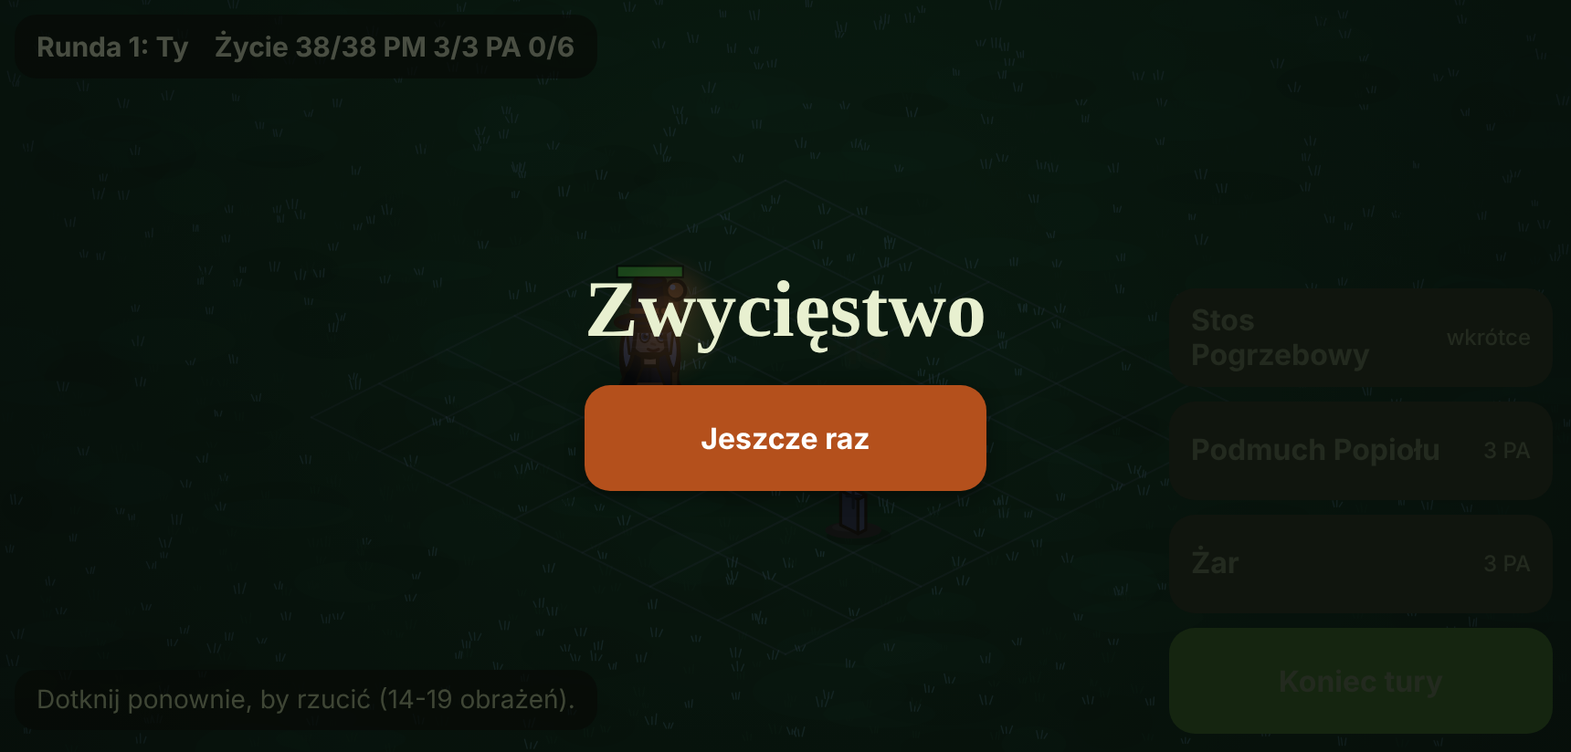
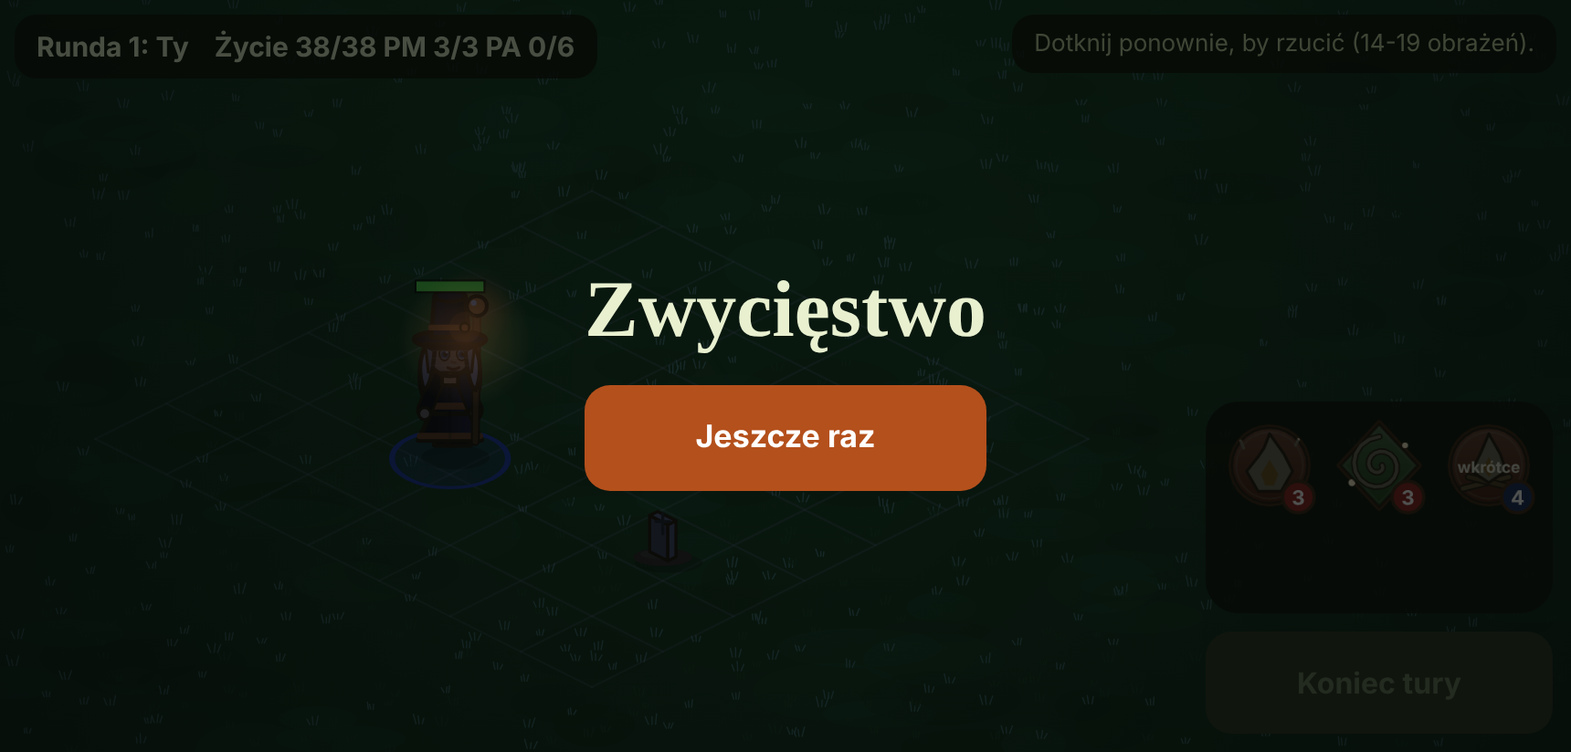
Fazy C, D, E: ikony w grze, pasek skrótów, karty czaru i wroga, kolory żywiołów
Pasek skrótów: 6 ikon na stronę, przyciski stron i przesunięcie palcem. W poziomie
prawa kolumna 3x2 (romb planszy zostawia tam miejsce), w pionie dolny pasek.
Karta czaru (żywiol, koszt, zasięg, widoczność, widełki obrażeń z odpornością),
karta wroga z odpornościami odkrywanymi po pierwszym trafieniu żywiołem.
Liczby obrażeń w kolorze żywiołu ze strzałką słabości i odporności.
5 czarów testowych (?spells=all) do sprawdzania stron. Ikony ich symboli.
Testy: 84 jednostkowe, 4 testy dotykowe (w tym pasek: strony, swipe, odkrywanie).

Claude-Session: https://claude.ai/code/session_01YGgK3XekFYaLDhBRBtmmRq

diff --git a/www/walka.html b/www/walka.html
@@ -1,27 +1,50 @@
 <!doctype html><html lang="pl"><head><meta charset="utf-8">
 <meta name="viewport" content="width=device-width,initial-scale=1,maximum-scale=1,user-scalable=no"><title>Walka</title>
 <style>
+:root{--s:min(60px,calc((100vw - 36px) / 8.8))}
 html,body{margin:0;height:100%;background:#0c1210;color:#e8f0d0;font:15px system-ui,sans-serif;-webkit-user-select:none;user-select:none;overscroll-behavior:none;overflow:hidden}
 #app{position:fixed;inset:0}
-canvas{position:absolute;inset:0;width:100%;height:100%;touch-action:none;display:block}
-.pill{position:absolute;background:rgba(10,14,8,.72);border-radius:12px;padding:8px 12px;pointer-events:none}
-#hud{top:max(8px,env(safe-area-inset-top));left:max(8px,env(safe-area-inset-left));font-weight:700;display:flex;gap:14px}
-#msg{bottom:max(12px,env(safe-area-inset-bottom));left:max(8px,env(safe-area-inset-left));max-width:calc(100% - 250px);color:#c6d6a6;font-size:14px}
+canvas#c{position:absolute;inset:0;width:100%;height:100%;touch-action:none;display:block}
+.pill{position:absolute;background:rgba(10,14,8,.8);border-radius:12px;padding:8px 12px}
+#hud{top:max(8px,env(safe-area-inset-top));left:max(8px,env(safe-area-inset-left));font-weight:700;display:flex;gap:14px;pointer-events:none}
+#msg{top:max(8px,env(safe-area-inset-top));right:max(8px,env(safe-area-inset-right));max-width:42vw;color:#c6d6a6;font-size:13px;text-align:right;pointer-events:none}
 #msg:empty{display:none}
-#right{position:absolute;right:max(10px,env(safe-area-inset-right));bottom:max(10px,env(safe-area-inset-bottom));display:flex;flex-direction:column;gap:8px;width:min(210px,40vw)}
-button{border:0;border-radius:14px;font:700 16px system-ui;color:#fff;touch-action:manipulation;box-shadow:0 3px 10px rgba(0,0,0,.4)}
-#end{height:58px;background:#3b6a2a}
-.sp{min-height:54px;background:#4a2a3a;text-align:left;padding:6px 12px;line-height:1.2;display:flex;justify-content:space-between;align-items:center;gap:6px}
-.sp small{font-weight:500;font-size:12px;color:#d8c8d0}
-.sp.on{background:#b4501c;outline:3px solid #ffe066}
-button:disabled{background:#2a3324;color:#6a7a5a;box-shadow:none}.sp:disabled small{color:#6a7a5a}
+#foe{left:max(8px,env(safe-area-inset-left));top:calc(max(8px,env(safe-area-inset-top)) + 50px);display:none;min-width:150px}
+#foe b{display:block;margin-bottom:4px}
+#foe .rs{display:grid;grid-template-columns:1fr 1fr;gap:4px 10px}
+#foe .r{display:flex;align-items:center;gap:6px;font-weight:700;font-size:14px}
+#foe canvas{width:30px;height:30px}
+#card{left:50%;transform:translateX(-50%);bottom:calc(var(--s) + 34px);max-width:min(94vw,540px);display:none;font-size:14px;line-height:1.4;text-align:center}
+#card small{color:#a89878;display:block}
+#bar{position:absolute;left:50%;transform:translateX(-50%);bottom:max(10px,env(safe-area-inset-bottom));display:flex;align-items:center;gap:6px;background:rgba(10,14,8,.85);border-radius:18px;padding:6px 8px;touch-action:none}
+#slots{display:flex;gap:6px;min-width:calc(var(--s) * 6 + 30px)}
+.slot{width:var(--s);height:var(--s);padding:0;border:0;border-radius:14px;background:transparent;touch-action:none}
+.slot canvas{width:100%;height:100%;display:block}
+.pg{width:calc(var(--s) * .6);height:var(--s);border:0;border-radius:12px;background:#2c2022;color:#e8dcc0;font-size:24px;touch-action:manipulation}
+.pg:disabled{opacity:.3}
+#pgi{position:absolute;top:-17px;left:50%;transform:translateX(-50%);font-size:12px;color:#a89878}
+button{font-family:inherit}
+#end{position:absolute;right:max(10px,env(safe-area-inset-right));bottom:max(10px,env(safe-area-inset-bottom));width:min(170px,26vw);height:calc(var(--s) + 12px);border:0;border-radius:14px;background:#3b6a2a;color:#fff;font:700 16px system-ui;box-shadow:0 3px 10px rgba(0,0,0,.4);touch-action:manipulation}
+#end:disabled{background:#2a3324;color:#6a7a5a;box-shadow:none}
+@media (orientation:landscape) and (min-width:600px){
+  :root{--s:54px}
+  #bar{left:auto;right:max(10px,env(safe-area-inset-right));transform:none;bottom:calc(max(10px,env(safe-area-inset-bottom)) + 66px);display:grid;grid-template-columns:1fr 1fr;grid-template-areas:"slots slots" "prev next";gap:6px;padding:8px}
+  #slots{grid-area:slots;display:grid;grid-template-columns:repeat(3,var(--s));min-width:0}
+  #prev{grid-area:prev;width:auto;height:40px}#next{grid-area:next;width:auto;height:40px}
+  #end{width:calc(var(--s) * 3 + 12px + 16px);height:56px}
+  #card{left:max(8px,env(safe-area-inset-left));transform:none;bottom:max(10px,env(safe-area-inset-bottom));max-width:36vw;text-align:left}
+}
+@media (max-width:760px) and (orientation:portrait){#msg{top:calc(max(8px,env(safe-area-inset-top)) + 50px);left:max(8px,env(safe-area-inset-left));right:auto;text-align:left;max-width:78vw}#foe{top:calc(max(8px,env(safe-area-inset-top)) + 100px)}#end{bottom:calc(var(--s) + 34px + 10px);width:min(150px,36vw);height:48px}}
 #banner{position:absolute;inset:0;display:none;flex-direction:column;align-items:center;justify-content:center;gap:16px;background:rgba(6,8,6,.7);font:800 44px Georgia,serif}
-#banner button{background:#b4501c;width:220px;height:58px}
+#banner button{background:#b4501c;width:220px;height:58px;border:0;border-radius:14px;color:#fff;font:700 17px system-ui}
 </style></head><body><div id="app">
 <canvas id="c"></canvas>
 <div id="hud" class="pill"><span id="who">Walka</span><span id="pts"></span></div>
 <div id="msg" class="pill"></div>
-<div id="right"><div id="spells" style="display:flex;flex-direction:column-reverse;gap:8px"></div><button id="end">Koniec tury</button></div>
+<div id="foe" class="pill"></div>
+<div id="card" class="pill"></div>
+<div id="bar"><span id="pgi"></span><button class="pg" id="prev" aria-label="Poprzednia strona">‹</button><div id="slots"></div><button class="pg" id="next" aria-label="Następna strona">›</button></div>
+<button id="end">Koniec tury</button>
 <div id="banner"><span id="bt"></span><button id="again">Jeszcze raz</button></div></div>
 <script type="module">
 import {IsoGrid} from '../src/grid.js';
@@ -31,54 +54,99 @@ import {drawGridLines,fillCells,drawCellOutline} from '../src/art/gridview.js';
 import * as N from '../src/art/nature.js';
 import {grave,ashCloud} from '../src/art/props.js';
 import {applyMood,glow} from '../src/art/mood.js';
+import {drawSpellIcon} from '../src/art/spellicons.js';
 import {createState,currentUnit,unitById,gridOf,occupied} from '../src/game/state.js';
 import {applyCommand,legalMoves,ERRORS} from '../src/game/commands.js';
 import {findPath} from '../src/game/pathfinding.js';
 import {chooseCommand} from '../src/game/ai.js';
-import {CLASSES} from '../src/game/classdata.js';
-import {castProblem,validTargets,damageRangeVs,elementOfSpell,spellData,implemented} from '../src/game/spells.js';
+import {CLASSES,ELEMENTS,DEV_SPELLS,findSpellDef} from '../src/game/classdata.js';
+import {castProblem,validTargets,damageRange,damageRangeVs,elementOfSpell,spellData,implemented} from '../src/game/spells.js';
 import {spawn} from '../src/game/bestiary.js';
 
 const cv=document.getElementById('c'),g=cv.getContext('2d'),$=id=>document.getElementById(id);
-const Q=new URLSearchParams(location.search),mood=Q.get('mood')||'noc',scenario=Q.get('scenario')||'default',HERO=Q.get('hero')||'zalobnik';
-const WORLD={w:540,h:400},grid=new IsoGrid(7,7,{x:WORLD.w/2,y:96});
+const Q=new URLSearchParams(location.search),mood=Q.get('mood')||'noc',scenario=Q.get('scenario')||'default',HERO=Q.get('hero')||'zalobnik',ALL=Q.get('spells')==='all',PAGE=6;
+const WORLD={w:540,h:356},grid=new IsoGrid(7,7,{x:WORLD.w/2,y:84});
 let view={s:1,ox:0,oy:0};
 const guard=(id,x,y,seed,arch='straznik')=>spawn(arch,id,x,y,{role:'warrior',seed});
-const hero=(x,y)=>({id:'h',team:'gracz',name:'Ty',classId:HERO,seed:3,x,y,initiative:99});
+const hero=(x,y)=>({id:'h',team:'gracz',name:'Ty',classId:HERO,seed:3,x,y,initiative:99,...(ALL?{spells:[...CLASSES[HERO].spells,...DEV_SPELLS].map(s=>({id:s.id,level:1}))}:{})});
 const SCEN={
-  default:{blocked:[{x:3,y:2},{x:4,y:2},{x:2,y:4},{x:4,y:4},{x:0,y:3}],units:[hero(1,5),guard('e1',5,1,9),guard('e2',5,3,21)]},
+  default:{blocked:[{x:3,y:2},{x:4,y:2},{x:2,y:4},{x:4,y:4},{x:0,y:3}],units:[hero(1,5),guard('e1',5,1,9),guard('e2',5,3,21,'popielny')]},
   cast:{blocked:[],units:[hero(2,4),guard('e1',5,4,9)]},
   wall:{blocked:[{x:3,y:4}],units:[hero(1,4),guard('e1',5,4,9)]},
   push:{blocked:[{x:6,y:4}],units:[hero(2,4),guard('e1',4,4,9)]},
 };
-let state,look,facing,lastPos,preview=null,selSpell=null,anim=null,busy=false,pendingResult=null,floats=[],shake=new Map();
+let state,look,facing,lastPos,preview=null,selSpell=null,anim=null,busy=false,pendingResult=null,floats=[],shake=new Map(),page=0,inspect=null,swiped=false;
 function newGame(){const sc=SCEN[scenario]||SCEN.default;state=createState({cols:7,rows:7,seed:42,blocked:sc.blocked,units:sc.units});
   look=new Map(state.units.map(u=>[u.id,u.id==='h'?heroSpec(HERO,{face:1,hairStyle:'long',hair:'#c8c8d0',skin:'#f0c49a'}):genCharacter(u.seed,u.role)]));
   facing=new Map(state.units.map(u=>[u.id,u.team==='gracz'?'SE':'SW']));lastPos=new Map(state.units.map(u=>[u.id,{x:u.x,y:u.y}]));
-  preview=null;selSpell=null;anim=null;busy=false;pendingResult=null;floats=[];$('banner').style.display='none';hud();say('Twoja tura: dotknij kafla, by zobaczyć drogę, dotknij ponownie, by iść.')}
+  preview=null;selSpell=null;anim=null;busy=false;pendingResult=null;floats=[];inspect=null;page=0;$('banner').style.display='none';hud();say('Twoja tura: dotknij kafla, by zobaczyć drogę, dotknij ponownie, by iść.')}
 const dirFor=(dx,dy)=>dx>0?'SE':dx<0?'NW':dy>0?'SW':'NE';   // x rośnie w prawo-dół, y w lewo-dół
+const COL={earth:'#d2a45c',fire:'#ff6a3a',water:'#5ab0ff',air:'#7ae07a',neutral:'#e8e8e8'};
 
 const bg=document.createElement('canvas');
 function renderBg(){bg.width=cv.width;bg.height=cv.height;const b=bg.getContext('2d');
   N.ground(b,bg.width,bg.height,7,{biome:'dark'});N.tufts(b,bg.width,bg.height,7,Math.round(bg.width*bg.height/1400),null,{biome:'dark'});
   b.setTransform(view.s,0,0,view.s,view.ox,view.oy);drawGridLines(b,grid,'rgba(255,255,255,.22)')}
+const isLand=()=>matchMedia('(orientation:landscape) and (min-width:600px)').matches;
 function resize(){const r=cv.getBoundingClientRect(),dpr=Math.min(2,window.devicePixelRatio||1);cv.width=Math.max(2,Math.round(r.width*dpr));cv.height=Math.max(2,Math.round(r.height*dpr));
-  const s=Math.min(cv.width/WORLD.w,cv.height/WORLD.h);view={s,ox:(cv.width-WORLD.w*s)/2,oy:(cv.height-WORLD.h*s)/2};renderBg()}
+  const bar=$('bar').getBoundingClientRect(),land=isLand(),topPad=14*dpr,botPad=(land?14:bar.height+26)*dpr,rightPad=(land?bar.width+22:0)*dpr;
+  const availW=cv.width-rightPad,availH=cv.height-botPad-topPad,s=Math.min(availW/WORLD.w,availH/WORLD.h);
+  view={s,ox:(availW-WORLD.w*s)/2,oy:topPad+(availH-WORLD.h*s)/2};renderBg()}
 addEventListener('resize',resize);
 const toWorld=(cx,cy)=>{const r=cv.getBoundingClientRect(),px=(cx-r.left)*cv.width/r.width,py=(cy-r.top)*cv.height/r.height;return[(px-view.ox)/view.s,(py-view.oy)/view.s]};
 const toCss=(wx,wy)=>{const r=cv.getBoundingClientRect();return[(view.ox+wx*view.s)*r.width/cv.width,(view.oy+wy*view.s)*r.height/cv.height]};
 
 const say=t=>$('msg').textContent=t;
 const me=()=>unitById(state,'h');
-function hud(){const u=currentUnit(state),h=me(),mine=u.team==='gracz'&&!busy&&!state.result;
+const spellList=()=>me().spells.map(k=>({k,def:findSpellDef(me().classId,k.id),sd:spellData(me(),k.id)}));
+const mineNow=()=>currentUnit(state).team==='gracz'&&!busy&&!state.result;
+function slotInfo(it){const h=me(),d=it.sd.data,id=it.k.id,cd=h.cooldowns[id]||0,impl=implemented(d),noPa=h.pa<d.pa,lim=(h.casts[id]||0)>=d.perTurn,mine=mineNow();
+  const ready=mine&&impl&&!noPa&&cd===0&&!lim;
+  const st=!impl?'soon':cd>0?`cooldown:${cd}`:lim?'limit':noPa?'noPa':mine?'ready':'wait';
+  return{ready,st,reason:!impl?'Ten czar jeszcze nie działa.':cd>0?`Czar wróci za ${cd} t.`:lim?ERRORS.limit:noPa?ERRORS.no_pa:'Teraz nie możesz rzucać.',icon:{selected:selSpell===id,soon:!impl,cooldown:cd,noPa:noPa&&impl,disabled:!ready&&impl&&cd===0}}}
+function renderBar(){
+  const L=spellList(),pages=Math.max(1,Math.ceil(L.length/PAGE));page=Math.min(page,pages-1);
+  const box=$('slots');box.innerHTML='';
+  for(const it of L.slice(page*PAGE,page*PAGE+PAGE)){
+    const inf=slotInfo(it),b=document.createElement('button'),c=document.createElement('canvas');b.className='slot';b.id='slot-'+it.k.id;b.setAttribute('aria-label',it.def.name);b.dataset.state=inf.st;
+    if(!inf.ready)b.setAttribute('aria-disabled','true');c.width=c.height=120;b.append(c);
+    drawSpellIcon(c.getContext('2d'),{...it.def,pa:it.sd.data.pa},60,60,112,inf.icon);
+    b.onclick=()=>{if(swiped){swiped=false;return}pickSpell(it.k.id)};box.append(b)}
+  $('pgi').textContent=pages>1?`${page+1}/${pages}`:'';$('prev').style.visibility=$('next').style.visibility=pages>1?'visible':'hidden';$('prev').disabled=page===0;$('next').disabled=page>=pages-1;
+}
+function go(dir){const pages=Math.max(1,Math.ceil(me().spells.length/PAGE));page=Math.max(0,Math.min(pages-1,page+dir));renderBar()}
+$('prev').onclick=()=>go(-1);$('next').onclick=()=>go(1);
+{let sx=null;const bar=$('bar');bar.addEventListener('pointerdown',e=>{sx=e.clientX;swiped=false});
+ bar.addEventListener('pointermove',e=>{if(sx!=null&&!swiped&&Math.abs(e.clientX-sx)>40){swiped=true;go(e.clientX<sx?1:-1);sx=e.clientX}});
+ bar.addEventListener('pointerup',()=>{sx=null;setTimeout(()=>{swiped=false},50)});bar.addEventListener('pointercancel',()=>{sx=null})}
+
+function chipCanvas(el){const c=document.createElement('canvas');c.width=c.height=60;drawSpellIcon(c.getContext('2d'),{id:'none',element:el},30,30,56);return c}
+function renderFoe(){
+  const box=$('foe');const tgt=preview&&preview.kind==='cast'?state.units.find(q=>q.hp>0&&q.x===preview.x&&q.y===preview.y):inspect&&state.units.find(q=>q.id===inspect&&q.hp>0);
+  if(!tgt){box.style.display='none';return}
+  const kn=state.known[tgt.id]||{};box.style.display='block';box.innerHTML=`<b>${tgt.name||tgt.id} ${tgt.hp}/${tgt.maxHp}</b><div class="rs"></div>`;
+  for(const e of ['earth','fire','water','air','neutral']){const r=document.createElement('div');r.className='r';r.dataset.el=e;r.append(chipCanvas(e));const v=document.createElement('span');
+    if(kn[e]!==undefined){v.textContent=(kn[e]>0?'+':'')+kn[e]+'%';v.style.color=kn[e]>0?'#8ac88a':kn[e]<0?'#e08a6a':'#c8c8c8'}else{v.textContent='?';v.style.color='#777'}r.append(v);box.querySelector('.rs').append(r)}
+}
+function renderCard(){
+  const box=$('card');if(!selSpell){box.style.display='none';return}
+  const h=me(),def=findSpellDef(h.classId,selSpell),d=spellData(h,selSpell).data,el=ELEMENTS[def.element],[lo,hi]=damageRange(h,d,def.element);
+  let dm=`obrażenia ${lo}-${hi}`,sub='';
+  if(preview&&preview.kind==='cast'){const t=state.units.find(q=>q.hp>0&&q.x===preview.x&&q.y===preview.y),kn=t&&state.known[t.id]?.[def.element];
+    if(kn!==undefined){const [a,b]=damageRangeVs(h,d,def.element,t);dm=`obrażenia ${a}-${b} (odporność ${kn>0?'+':''}${kn}%)`}else dm+=' (odporność nieznana)';sub='Dotknij ponownie, by rzucić'}
+  else sub='Wybierz cel na podświetlonych kaflach';
+  box.style.display='block';box.innerHTML=`<b style="color:${COL[def.element]}">${def.name}</b> <span style="color:${COL[def.element]}">(${el.name})</span> · ${d.pa} PA · zasięg ${d.min}-${d.max}${d.line?' w linii':''}${d.los?', widoczność':''}${d.cd?` · odnowienie ${d.cd}`:''}<br>${dm}${d.push?` · odpycha o ${d.push}`:''}<small>${sub}</small>`;
+}
+function hud(){const u=currentUnit(state),h=me();
   $('who').textContent=`Runda ${state.turn.round}: ${u.name}`;$('pts').textContent=`Życie ${h.hp}/${h.maxHp}   PM ${h.pm}/${h.maxPm}   PA ${h.pa}/${h.maxPa}`;
-  $('end').disabled=!mine;
-  const box=$('spells');if(!box.children.length)for(const sp of CLASSES[h.classId].spells){const b=document.createElement('button');b.className='sp';b.id='sp-'+sp.id;b.onclick=()=>pickSpell(sp.id);box.append(b)}
-  for(const sp of CLASSES[h.classId].spells){const b=$('sp-'+sp.id),sd=spellData(h,sp.id),d=sd.data,cd=h.cooldowns[sp.id]||0,ok=implemented(d);
-    b.innerHTML=`<span>${sp.name}</span><small>${ok?(cd>0?`wraca za ${cd} t.`:`${d.pa} PA`):'wkrótce'}</small>`;
-    b.disabled=!mine||!ok||h.pa<d.pa||cd>0||(h.casts[sp.id]||0)>=d.perTurn;b.classList.toggle('on',selSpell===sp.id)}}
-function pickSpell(id){if(busy||state.result)return;selSpell=selSpell===id?null:id;preview=null;
-  say(selSpell?`${CLASSES[me().classId].spells.find(s=>s.id===id).name}: wybierz cel na podświetlonych kaflach.`:'Wybór czaru anulowany.');hud()}
+  $('end').disabled=!mineNow();renderBar();renderCard();renderFoe();resizeSoon()}
+let rs=0,sig='';function resizeSoon(){if(rs)return;rs=setTimeout(()=>{rs=0;const b=$('bar').getBoundingClientRect(),n=Math.round(b.width)+'x'+Math.round(b.height);if(n!==sig){sig=n;resize()}},0)}
+function pickSpell(id){
+  if(busy||state.result)return;const it=spellList().find(x=>x.k.id===id),inf=slotInfo(it);
+  if(!inf.ready&&selSpell!==id){say(inf.reason);return}
+  selSpell=selSpell===id?null:id;preview=null;inspect=null;
+  if(selSpell){const pi=Math.floor(spellList().findIndex(x=>x.k.id===id)/PAGE);page=pi}
+  say(selSpell?'Wybierz cel na podświetlonych kaflach.':'Wybór czaru anulowany.');hud()}
 const pathTo=(u,c)=>{const p=findPath(gridOf(state),u,c,occupied(state,u.id));return p&&p.length<=u.pm?p:null};
 
 function act(cmd){
@@ -87,13 +155,14 @@ function act(cmd){
   for(const e of r.events){
     if(e.type==='moved'){busy=true;anim={kind:'move',unit:e.unit,cells:[lastPos.get(e.unit),...e.path],t:0}}
     if(e.type==='cast'){busy=true;anim=anim||{kind:'wait',t:0,dur:.8};
-      const c=grid.center(e.to.x,e.to.y);for(const h of e.hits){floats.push({x:c[0],y:c[1]-46,text:'-'+h.dmg,t:0});shake.set(h.unit,0)}
+      const c=grid.center(e.to.x,e.to.y);for(const h of e.hits){addFloat(c,h);shake.set(h.unit,0)}
       facing.set(e.unit,dirFor(Math.sign(e.to.x-lastPos.get(e.unit).x)||0,Math.sign(e.to.y-lastPos.get(e.unit).y)||0)||facing.get(e.unit))}
     if(e.type==='pushed'){busy=true;anim={kind:'slide',unit:e.unit,from:e.from,to:e.to,t:0,dur:.8};shake.set(e.unit,0);
-      const c=grid.center(e.to.x,e.to.y);for(const h of e.hits){floats.push({x:c[0]+(h.unit===e.unit?0:14),y:c[1]-46,text:'-'+h.dmg,t:0});shake.set(h.unit,0)}}
+      const c=grid.center(e.to.x,e.to.y);for(const h of e.hits){addFloat([c[0]+(h.unit===e.unit?0:14),c[1]],h);shake.set(h.unit,0)}}
     if(e.type==='finished')pendingResult=e.result}
   hud();return r;
 }
+function addFloat(c,h){const mark=h.kind==='spell'?(h.resist<0?' ▲':h.resist>=25?' ▼':''):'';floats.push({x:c[0],y:c[1]-46,text:'-'+h.dmg+mark,color:h.kind==='collision'?'#d8d8d8':COL[h.element]||'#e02a2a',t:0})}
 function afterAnim(){
   busy=false;for(const u of state.units)lastPos.set(u.id,{x:u.x,y:u.y});
   if(pendingResult){showResult();return}
@@ -106,19 +175,24 @@ $('again').onclick=newGame;
 
 function tap(sx,sy){
   if(busy||state.result)return;const u=currentUnit(state);if(u.team!=='gracz')return;
-  const c=grid.cellAt(sx,sy);if(!c){preview=null;return}
+  const c=grid.cellAt(sx,sy);if(!c){preview=null;hud();return}
+  const foe=state.units.find(q=>q.hp>0&&q.team==='wrog'&&q.x===c.x&&q.y===c.y);
   if(selSpell){
     const err=castProblem(state,u.id,selSpell,c);
-    if(err){preview=null;say(ERRORS[err]||'Nie można tu rzucić.');return}
+    if(err){preview=null;say(ERRORS[err]||'Nie można tu rzucić.');hud();return}
     if(preview&&preview.kind==='cast'&&preview.x===c.x&&preview.y===c.y){const sp=selSpell;selSpell=null;if(act({type:'cast',unit:u.id,spell:sp,to:{x:c.x,y:c.y}})&&!anim)afterAnim();return}
-    const tgt=state.units.find(q=>q.hp>0&&q.x===c.x&&q.y===c.y),[lo,hi]=damageRangeVs(u,spellData(u,selSpell).data,elementOfSpell(u,selSpell),tgt);preview={kind:'cast',x:c.x,y:c.y,lo,hi};say(`Dotknij ponownie, by rzucić (${lo}-${hi} obrażeń).`);return}
+    const kn=foe&&state.known[foe.id]?.[elementOfSpell(u,selSpell)],[lo,hi]=foe&&kn!==undefined?damageRangeVs(u,spellData(u,selSpell).data,elementOfSpell(u,selSpell),foe):damageRange(u,spellData(u,selSpell).data,elementOfSpell(u,selSpell));
+    preview={kind:'cast',x:c.x,y:c.y,lo,hi,known:kn!==undefined};say(`Dotknij ponownie, by rzucić (${lo}-${hi}${kn===undefined?'?':''} obrażeń).`);hud();return}
+  if(foe){inspect=foe.id;preview=null;say(`${foe.name}: odporności odkrywasz, trafiając go żywiołami.`);hud();return}
+  inspect=null;
   if(preview&&preview.kind==='move'&&preview.x===c.x&&preview.y===c.y){const p=preview;act({type:'move',unit:u.id,to:{x:p.x,y:p.y}});return}
   const m=legalMoves(state,u.id).get(grid.key(c.x,c.y));
   if(m){preview={kind:'move',x:c.x,y:c.y,path:pathTo(u,c),cost:m.cost};say(`Dotknij ponownie, by pójść (${m.cost} PM).`)}
   else{preview=null;say(gridOf(state).isBlocked(c.x,c.y)?'Tu nie da się wejść.':'Za daleko albo zajęte.')}
+  hud();
 }
 cv.addEventListener('pointerdown',e=>{const [wx,wy]=toWorld(e.clientX,e.clientY);tap(wx,wy);e.preventDefault()});
-$('end').addEventListener('click',()=>{if(busy||state.result)return;const u=currentUnit(state);if(u.team!=='gracz')return;selSpell=null;if(act({type:'endTurn',unit:u.id})&&!anim)afterAnim()});
+$('end').addEventListener('click',()=>{if(busy||state.result)return;const u=currentUnit(state);if(u.team!=='gracz')return;selSpell=null;inspect=null;if(act({type:'endTurn',unit:u.id})&&!anim)afterAnim()});
 
 function visual(u){
   const lp=lastPos.get(u.id);
@@ -136,14 +210,14 @@ function frame(now){
   floats=floats.filter(f=>(f.t+=dt)<1.1);for(const [k,v] of shake)if(v+dt>.35)shake.delete(k);else shake.set(k,v+dt);
   g.setTransform(1,0,0,1,0,0);g.clearRect(0,0,cv.width,cv.height);g.drawImage(bg,0,0);
   g.setTransform(view.s,0,0,view.s,view.ox,view.oy);
-  const cur=currentUnit(state),overlay=[],mine=!busy&&cur.team==='gracz'&&!state.result;
-  if(mine&&selSpell){const t=validTargets(state,cur.id,selSpell),d=spellData(cur,selSpell).data;
+  const cur=currentUnit(state),overlay=[],mine=mineNow();
+  if(mine&&selSpell){const t=validTargets(state,cur.id,selSpell),d=spellData(cur,selSpell).data,ec=ELEMENTS[findSpellDef(cur.classId,selSpell).element].color;
     const inRange=[];for(let y=0;y<7;y++)for(let x=0;x<7;x++){const dd=Math.abs(x-cur.x)+Math.abs(y-cur.y);if(dd>=d.min&&dd<=d.max&&(!d.line||x===cur.x||y===cur.y))inRange.push({x,y})}
-    fillCells(g,grid,inRange,'rgba(255,140,60,.13)');fillCells(g,grid,t,'rgba(255,90,40,.42)');for(const c of t)drawCellOutline(g,grid,c.x,c.y,'rgba(255,200,120,.9)',1.8)}
+    fillCells(g,grid,inRange,ec+'22');fillCells(g,grid,t,ec+'77');for(const c of t)drawCellOutline(g,grid,c.x,c.y,ec,1.8)}
   else if(mine){const mv=[...legalMoves(state,cur.id).values()];fillCells(g,grid,mv,'rgba(90,150,255,.34)');for(const m of mv)drawCellOutline(g,grid,m.x,m.y,'rgba(170,210,255,.6)',1.2)}
   if(preview&&!busy){
     if(preview.kind==='move'&&preview.path){fillCells(g,grid,preview.path,'rgba(255,220,90,.42)');drawCellOutline(g,grid,preview.x,preview.y,'#ffe066',3);const c=grid.center(preview.x,preview.y);overlay.push(()=>label(c,preview.cost+' PM','#ffe066'))}
-    if(preview.kind==='cast'){drawCellOutline(g,grid,preview.x,preview.y,'#ff6a3a',3.4);const c=grid.center(preview.x,preview.y);overlay.push(()=>label(c,`${preview.lo}-${preview.hi}`,'#ff9a6a'))}}
+    if(preview.kind==='cast'){drawCellOutline(g,grid,preview.x,preview.y,'#ffffff',3.4);const c=grid.center(preview.x,preview.y);overlay.push(()=>label(c,`${preview.lo}-${preview.hi}${preview.known?'':'?'}`,'#ffd0a0'))}}
   const items=[];
   for(const kk of state.blocked){const x=kk%grid.cols,y=Math.floor(kk/grid.cols),c=grid.center(x,y);const t=(x*7+y*3)%3;
     items.push({d:x+y+.5,f:()=>t===0?N.rock(g,c[0],c[1]+10,x*9+y,{sc:.9}):t===1?N.stump(g,c[0],c[1]+8,x+y*5):N.deadTree(g,c[0],c[1]+10,x*3+y,{sc:.8})})}
@@ -157,11 +231,11 @@ function frame(now){
   items.sort((a,b)=>a.d-b.d).forEach(i=>i.f());
   g.setTransform(1,0,0,1,0,0);applyMood(g,cv.width,cv.height,mood);
   g.setTransform(view.s,0,0,view.s,view.ox,view.oy);overlay.forEach(f=>f());
-  for(const f of floats){g.globalAlpha=Math.max(0,1-f.t/1.1);g.font='bold 24px system-ui';g.textAlign='center';g.lineWidth=5;g.strokeStyle='#fff';g.strokeText(f.text,f.x,f.y-f.t*34);g.fillStyle='#e02a2a';g.fillText(f.text,f.x,f.y-f.t*34);g.globalAlpha=1}
+  for(const f of floats){g.globalAlpha=Math.max(0,1-f.t/1.1);g.font='bold 24px system-ui';g.textAlign='center';g.lineWidth=5;g.strokeStyle='#000';g.strokeText(f.text,f.x,f.y-f.t*34);g.fillStyle=f.color;g.fillText(f.text,f.x,f.y-f.t*34);g.globalAlpha=1}
   requestAnimationFrame(frame);
 }
 function label(c,text,col){g.font='bold 15px system-ui';g.textAlign='center';const w=g.measureText(text).width+14;g.fillStyle='rgba(20,20,10,.88)';g.beginPath();g.roundRect(c[0]-w/2,c[1]-52,w,22,8);g.fill();g.fillStyle=col;g.fillText(text,c[0],c[1]-36)}
-resize();newGame();requestAnimationFrame(frame);
-window.__game={get state(){return state},get preview(){return preview},get busy(){return busy},get selSpell(){return selSpell},grid,
+newGame();resize();requestAnimationFrame(frame);
+window.__game={get state(){return state},get preview(){return preview},get busy(){return busy},get selSpell(){return selSpell},get page(){return page},grid,
   targets:(id)=>validTargets(state,'h',id),cssCenter:(x,y)=>{const c=grid.center(x,y);return toCss(c[0],c[1])}};
 </script></body></html>

diff --git a/src/art/spellicons.js b/src/art/spellicons.js
@@ -24,6 +24,11 @@ const SYMBOLS = {
   odskok(k) { const { ln, poly, circ } = k; g_arc(k, -20, 12, 0, -14, 20, 6); poly([[16, 4], [24, 10], [14, 14]], CREAM, 1.8); circ(-18, 14, 3.4, 'rgba(255,241,208,.55)', 0); circ(-8, 4, 3, 'rgba(255,241,208,.35)', 0); },
   zar(k) { const { poly, ln } = k; poly([[0, -22], [10, -8], [16, 4], [8, 18], [-8, 18], [-16, 4], [-8, -6], [-4, -12]], CREAM, 2); poly([[0, -4], [6, 6], [3, 14], [-3, 14], [-6, 6]], '#ffb24a', 0); ln([[18, -14], [20, -18]], 2, CREAM); ln([[-18, -12], [-20, -17]], 2, CREAM); },
   podmuch(k) { const { ln, circ } = k; const pts = []; for (let i = 0; i <= 30; i++) { const a = i / 30 * 11, r = 2 + i * 0.6; pts.push([Math.cos(a) * r, Math.sin(a) * r]); } ln(pts, 4.4, OUT); ln(pts, 2.4, CREAM); circ(18, -14, 2, CREAM, 0); circ(-19, 12, 2.4, CREAM, 0); circ(20, 12, 1.6, CREAM, 0); },
+  lzy_zaloby(k) { const { poly, ln } = k; poly([[0, -22], [12, 2], [10, 12], [0, 18], [-10, 12], [-12, 2]], CREAM, 2); ln([[-5, 4], [-3, 11]], 2, '#9ac8f0'); ln([[-16, 20], [16, 20]], 1.6, 'rgba(255,241,208,.7)'); },
+  kamienny_calun(k) { const { poly, ln } = k; poly([[-18, 14], [-14, -10], [0, -18], [14, -10], [18, 14]], CREAM, 2); ln([[-8, 2], [0, -6], [8, 2]], 1.6, '#b8a888'); ln([[0, -6], [0, 12]], 1.6, '#b8a888'); },
+  plonacy_belt(k) { const { poly, ln } = k; ln([[-18, 14], [10, -12]], 4.6, OUT); ln([[-18, 14], [10, -12]], 2.4, CREAM); poly([[8, -20], [18, -22], [16, -10]], CREAM, 2); poly([[-4, -8], [2, -2], [-2, 4], [-8, -1]], '#ffb24a', 1.4); poly([[-18, 14], [-24, 12], [-20, 8]], CREAM, 1.6); },
+  szron(k) { const { ln, circ } = k; for (let i = 0; i < 3; i++) { const a = i / 3 * 3.1416; ln([[Math.cos(a) * -20, Math.sin(a) * -20], [Math.cos(a) * 20, Math.sin(a) * 20]], 3.2, OUT); ln([[Math.cos(a) * -20, Math.sin(a) * -20], [Math.cos(a) * 20, Math.sin(a) * 20]], 1.8, CREAM); } circ(0, 0, 3, CREAM, 1.4); },
+  wicher(k) { const { ln } = k; for (const [y, w] of [[-10, 22], [0, 26], [10, 20]]) { const pts = []; for (let i = 0; i <= 12; i++) pts.push([-w + i * (w * 2 / 12), y + Math.sin(i * 0.9) * 3 - (i > 9 ? (i - 9) * 1.5 : 0)]); ln(pts, 4.2, OUT); ln(pts, 2.2, CREAM); } },
   stos(k) { const { poly, ln } = k; ln([[-18, 16], [14, 8]], 5.4, OUT); ln([[-18, 16], [14, 8]], 3, '#c8a06a'); ln([[-14, 8], [18, 16]], 5.4, OUT); ln([[-14, 8], [18, 16]], 3, '#a8804a'); poly([[0, -22], [8, -8], [12, 4], [0, 12], [-12, 4], [-6, -8]], CREAM, 2); poly([[0, -6], [4, 2], [0, 8], [-4, 2]], '#ffb24a', 0); },
 };
 function g_arc(k, x0, y0, cx, cy, x1, y1) { const { ln } = k; const pts = []; for (let i = 0; i <= 16; i++) { const t = i / 16, u = 1 - t; pts.push([u * u * x0 + 2 * u * t * cx + t * t * x1, u * u * y0 + 2 * u * t * cy + t * t * y1]); } ln(pts, 5, OUT); ln(pts, 2.8, CREAM); }

diff --git a/src/game/classdata.js b/src/game/classdata.js
@@ -65,6 +65,18 @@ export const CLASSES = {
   },
 };
 export const CLASS_LIST = Object.values(CLASSES);
+
+// Czary TESTOWE (dev) z innych żywiołów, żeby sprawdzać pasek skrótów i odporności. Nie należą do żadnej klasy, ładowane tylko przez ?spells=all.
+// Prawdziwe czary zdobywane (i ich projekt) to osobna decyzja.
+const lv = (f) => Array.from({ length: MAX_SPELL_LEVEL }, (_, i) => f(i));
+export const DEV_SPELLS = [
+  { id: 'lzy_zaloby', element: 'water', name: 'Łzy Żałoby', tags: ['damage', 'los'], dev: true, desc: 'Zimna kula wody. Wymaga linii widzenia.', levels: lv((i) => ({ pa: 3, min: 2, max: 5 + (i > 2 ? 1 : 0), los: true, cd: 0, perTurn: 2, dmg: [11 + 2 * i, 15 + 2 * i] })) },
+  { id: 'kamienny_calun', element: 'earth', name: 'Kamienny Całun', tags: ['damage'], dev: true, desc: 'Uderzenie odłamkami skały z bliska.', levels: lv((i) => ({ pa: 3, min: 1, max: 3, cd: i < 3 ? 1 : 0, perTurn: 2, dmg: [13 + 2 * i, 17 + 2 * i] })) },
+  { id: 'plonacy_belt', element: 'fire', name: 'Płonący Bełt', tags: ['damage', 'los'], dev: true, desc: 'Bełt z płonącym grotem. Wymaga linii widzenia.', levels: lv((i) => ({ pa: 3, min: 3, max: 6, los: true, cd: 0, perTurn: 2, dmg: [12 + 2 * i, 16 + 2 * i] })) },
+  { id: 'szron', element: 'water', name: 'Szron', tags: ['damage'], dev: true, desc: 'Lodowy dotyk z bliska.', levels: lv((i) => ({ pa: 2, min: 1, max: 2, cd: i < 3 ? 1 : 0, perTurn: 2, dmg: [8 + 2 * i, 11 + 2 * i] })) },
+  { id: 'wicher', element: 'air', name: 'Wicher', tags: ['damage', 'los'], dev: true, desc: 'Cięcie wiatrem na dystans.', levels: lv((i) => ({ pa: 2, min: 2, max: 6, los: true, cd: 0, perTurn: 3, dmg: [8 + 2 * i, 11 + 2 * i] })) },
+];
+export const findSpellDef = (classId, spellId) => CLASSES[classId]?.spells.find((s) => s.id === spellId) || DEV_SPELLS.find((s) => s.id === spellId) || null;
 export const spellAt = (classId, spellId, level) => { const sp = CLASSES[classId]?.spells.find((s) => s.id === spellId); return sp ? sp.levels[level - 1] || null : null; };
 
 // Przeszłość (jedna) i cechy (dwie): historia bohatera plus drobne liczby. Każda cecha ma plus i skazę.

diff --git a/src/game/spells.js b/src/game/spells.js
@@ -3,14 +3,14 @@
 // Warstwa 2: odpychanie z kolizją (ściana, grób, krawędź, inna jednostka) i chmury popiołu zasłaniające widok.
 // Jeszcze nie zaimplementowane (czar jest odrzucany, a nie udawany): pułapki, glify, skok.
 import { rng } from '../art/rng.js';
-import { CLASSES } from './classdata.js';
+import { CLASSES, findSpellDef } from './classdata.js';
 import { gridOf, unitById, alive } from './state.js';
 import { hasLineOfSight } from './los.js';
 
 export const NOT_IMPLEMENTED = ['trap', 'glyph', 'jump'];
 export const spellData = (unit, spellId) => {
   const known = unit.spells?.find((s) => s.id === spellId); if (!known) return null;
-  const def = CLASSES[unit.classId]?.spells.find((s) => s.id === spellId); if (!def) return null;
+  const def = findSpellDef(unit.classId, spellId); if (!def) return null;
   const data = def.levels[known.level - 1]; return data ? { def, level: known.level, data } : null;
 };
 export const implemented = (data) => !NOT_IMPLEMENTED.some((k) => data[k]);
@@ -25,7 +25,7 @@ export function rollInt(state, lo, hi) { const v = rng(state.seed * 9973 + state
 // obrażenia = floor(rzut x (1 + (cecha żywiołu + moc ogólna)/100) x skala) + obrażenia stałe; potem x (1 - odporność%/100), minimum 0.
 // Zwykłe (neutralne) nie korzystają z cechy żywiołu, tylko z mocy ogólnej. Odporność: gracz do +50%, przeciwnik do +75%, słabość do -100%.
 export const RESIST_CAP = { gracz: 50, wrog: 75 }, RESIST_FLOOR = -100;
-export const elementOfSpell = (unit, spellId) => CLASSES[unit.classId]?.spells.find((s) => s.id === spellId)?.element || 'neutral';
+export const elementOfSpell = (unit, spellId) => findSpellDef(unit.classId, spellId)?.element || 'neutral';
 export const statFor = (unit, element) => (element === 'neutral' ? 0 : unit.stats?.[element] || 0) + (unit.stats?.power || 0);
 export const damageRange = (unit, data, element = 'neutral') => {
   const m = Math.max(0, 1 + statFor(unit, element) / 100) * (unit.damageScale ?? 1), f = unit.stats?.flat || 0;

diff --git a/docs/PLAN_ZYWIOLY.md b/docs/PLAN_ZYWIOLY.md
@@ -100,6 +100,9 @@ Obecny pionowy stos przycisków nie pomieści więcej niż 4 czarów. Propozycja
 
 ## 7. Fazy budowy (każda z testami)
 
+**Postęp:** A (żywioły i odporności w logice) gotowa. C (ikony w grze) i D (pasek skrótów, karty czaru i wroga, odkrywanie odporności) gotowe. E (kolory liczb obrażeń według żywiołu) gotowa w walce. B (model postaci, punkty cech, ekran awansu) w budowie. Układ poziomy: pasek w prawej kolumnie (3x2 ikony), bo romb planszy zostawia tam miejsce, a pasek u dołu zjadał wysokość i zmniejszał kafle. W pionie pasek jest u dołu.
+
+
 | Faza | Zakres | Dowód |
 |---|---|---|
 | A | Żywioły w danych i wzorze obrażeń, odporności przeciwników, nowe nazwy statystyk, kolor liczb obrażeń | testy wzoru (tabela z pkt 3), limity odporności, ujemne odporności, kolizje bez wpływu cech, reguła "każdy wróg ma słabość lub neutralność" |

diff --git a/README.md b/README.md
@@ -19,7 +19,7 @@ Wszystko rysuje kod, bez plików graficznych. Każdy obiekt ma ziarno, więc ta 
 ![wioska](docs/podglad/wioska.png)
 
 ## Gra w przeglądarce (GitHub Pages)
-Settings, Pages, Source: Deploy from a branch, Branch: main, folder: / (root). Adres: `https://kachaj96.github.io/Game2/`. Walka: `www/walka.html` (najlepiej w poziomie). Ze scenariuszami: `?scenario=cast`, `?scenario=push&hero=grabarz`, `?hero=tropiciel`, `?mood=zmierzch`.
+Settings, Pages, Source: Deploy from a branch, Branch: main, folder: / (root). Adres: `https://kachaj96.github.io/Game2/`. Walka: `www/walka.html` (najlepiej w poziomie). Pasek z wieloma czarami: `?spells=all` (5 czarów testowych z innych żywiołów). Ze scenariuszami: `?scenario=cast`, `?scenario=push&hero=grabarz`, `?hero=tropiciel`, `?mood=zmierzch`.
 
 ## Uruchomienie
 ```
